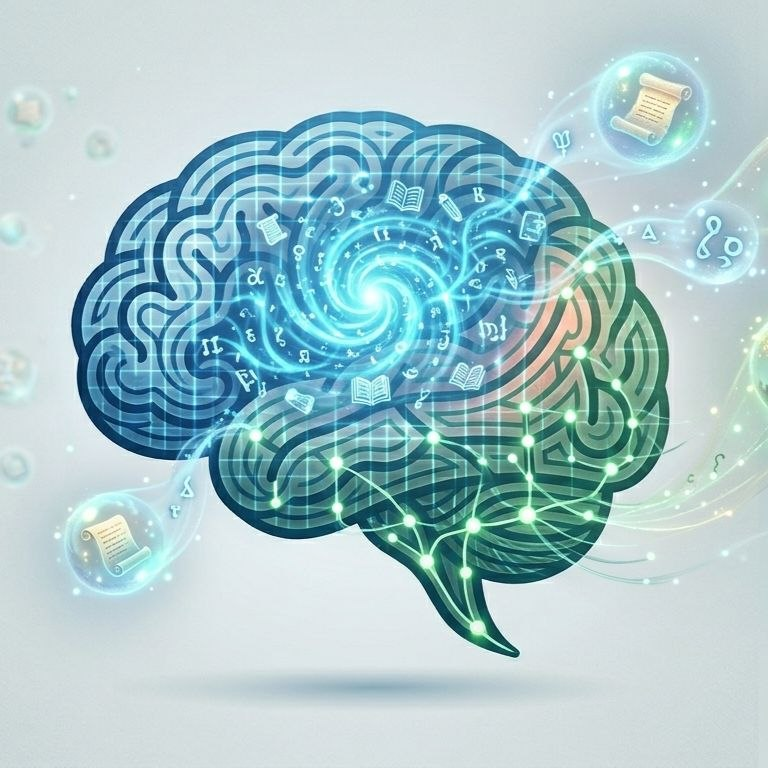
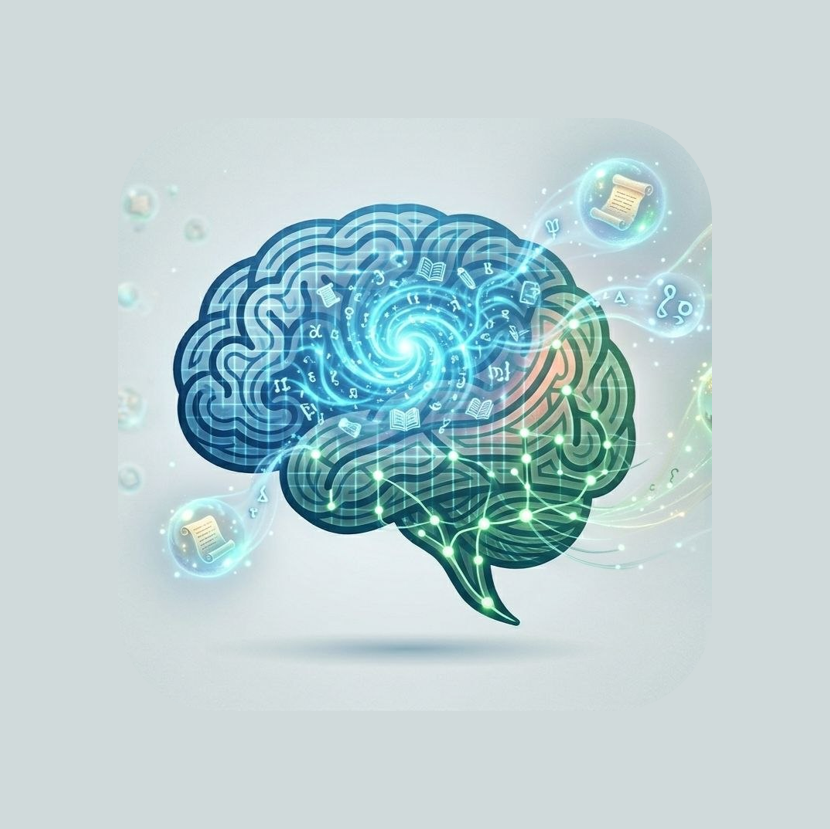
update

diff --git a/index.html b/index.html
@@ -921,7 +921,7 @@
 
         const maxStartIndex = words.length - 6;
         const firstWordsCount = Math.floor(Math.random() * (maxStartIndex + 1));
-        console.log("firstWordsCount:", firstWordsCount);
+        
         document.getElementById("text-content").value = words.slice(firstWordsCount, firstWordsCount + 5).join(" ") + " ...";
         
         document.getElementById("text-content").onfocus = function() {
